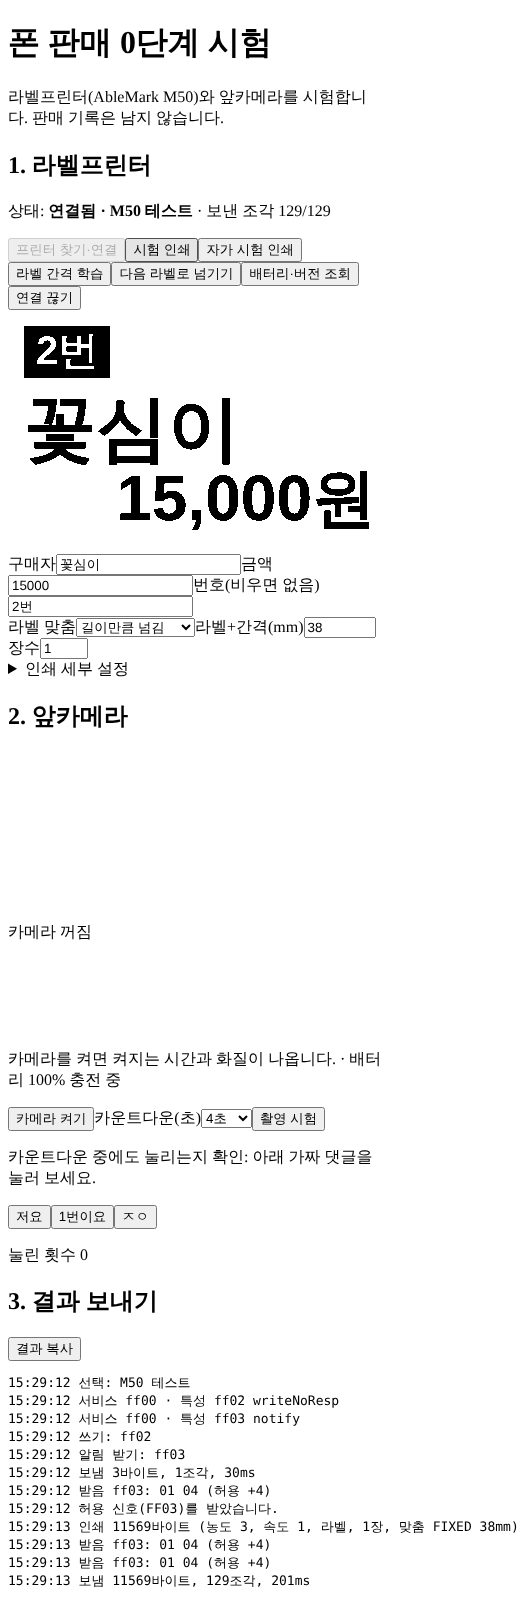
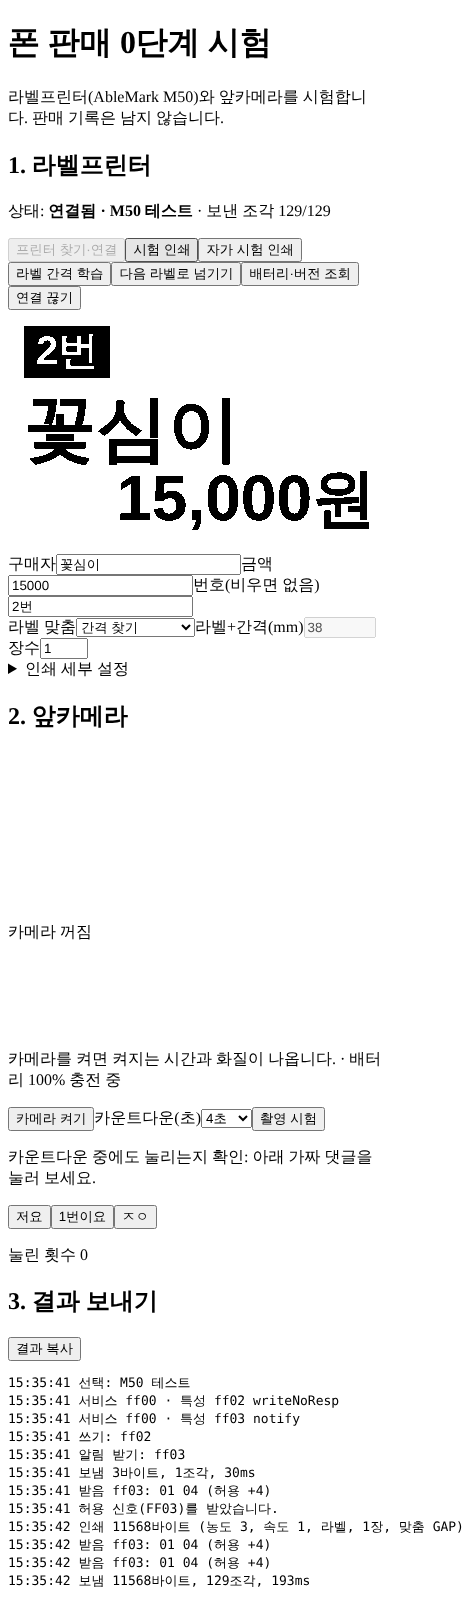
시험 화면: 라벨 맞춤 기본을 간격 찾기로 되돌림 (학현님: 그 상태가 잘 맞음)
Claude-Session: https://claude.ai/code/session_012vDSLgpmShEWNsaqVKWTS4

diff --git a/src/pages/test/SellTestPage.tsx b/src/pages/test/SellTestPage.tsx
@@ -50,7 +50,7 @@ const DEFAULTS: Settings = {
   delayMs: 30,
   chunkSize: 90,
   threshold: 160,
-  align: 'FIXED',
+  align: 'GAP',
   pitchMm: 38,
   seconds: 4,
 };
@@ -455,8 +455,8 @@ const SellTestPage: React.FC = () => {
               value={s.align}
               onChange={(e) => set('align', e.target.value as LabelAlign)}
             >
-              <option value="FIXED">길이만큼 넘김</option>
               <option value="GAP">간격 찾기</option>
+              <option value="FIXED">길이만큼 넘김</option>
               <option value="AUTO">맞춤 없음 (밀림)</option>
             </select>
           </Field>

diff --git a/src/services/labelPrinter/marklifeProtocol.ts b/src/services/labelPrinter/marklifeProtocol.ts
@@ -129,8 +129,8 @@ export const DOTS_PER_MM = 8; // 203 dpi
 /**
  * How each label ends. AUTO = align end command only; on the M50 (2026-10-29)
  * labels printed back to back and drifted. GAP = ask the printer to find the next
- * gap. FIXED = feed the rest of the label pitch (label + gap); the M50 lined up
- * best with FIXED at 38 mm (30 mm label + 8 mm gap).
+ * gap; the M50 lined up right with GAP from the first label. FIXED = feed the rest
+ * of the label pitch (label + gap), kept as a fallback.
  */
 export type LabelAlign = 'AUTO' | 'GAP' | 'FIXED';
 
